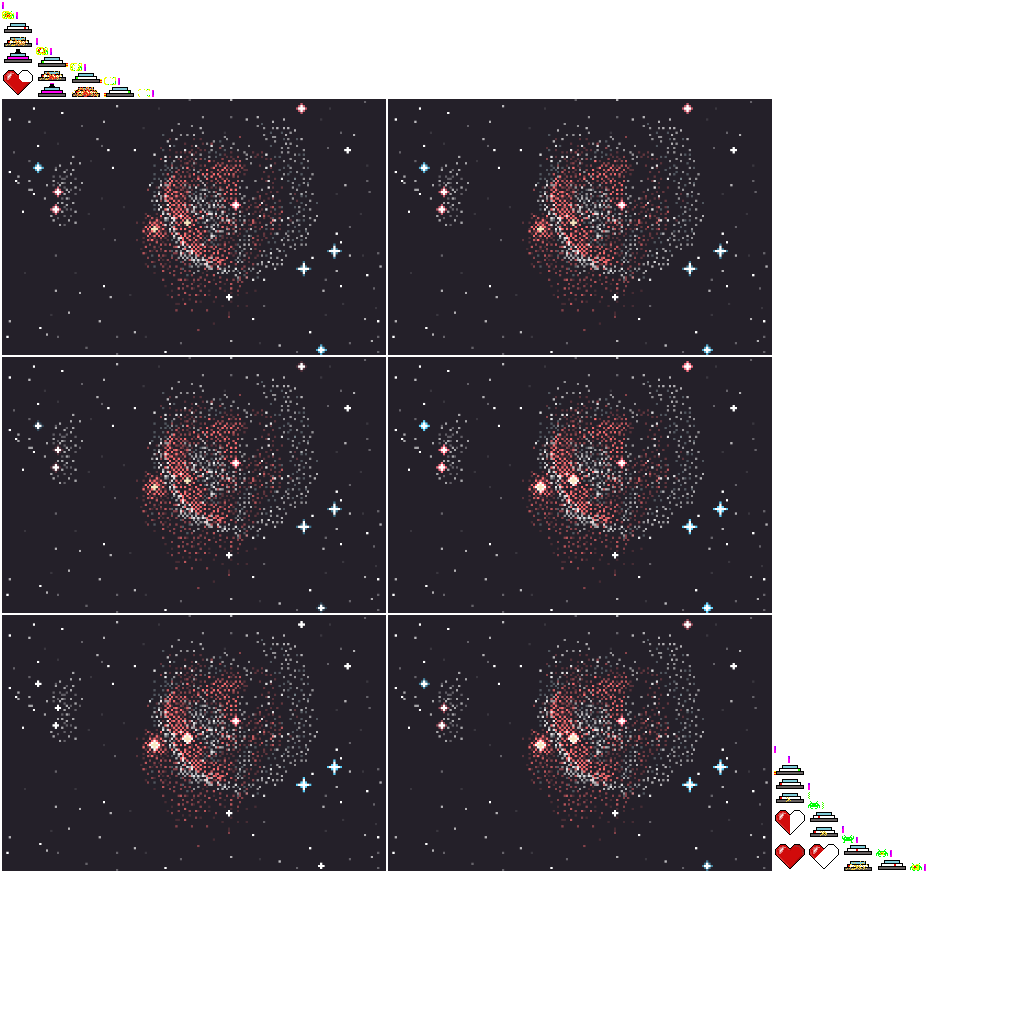
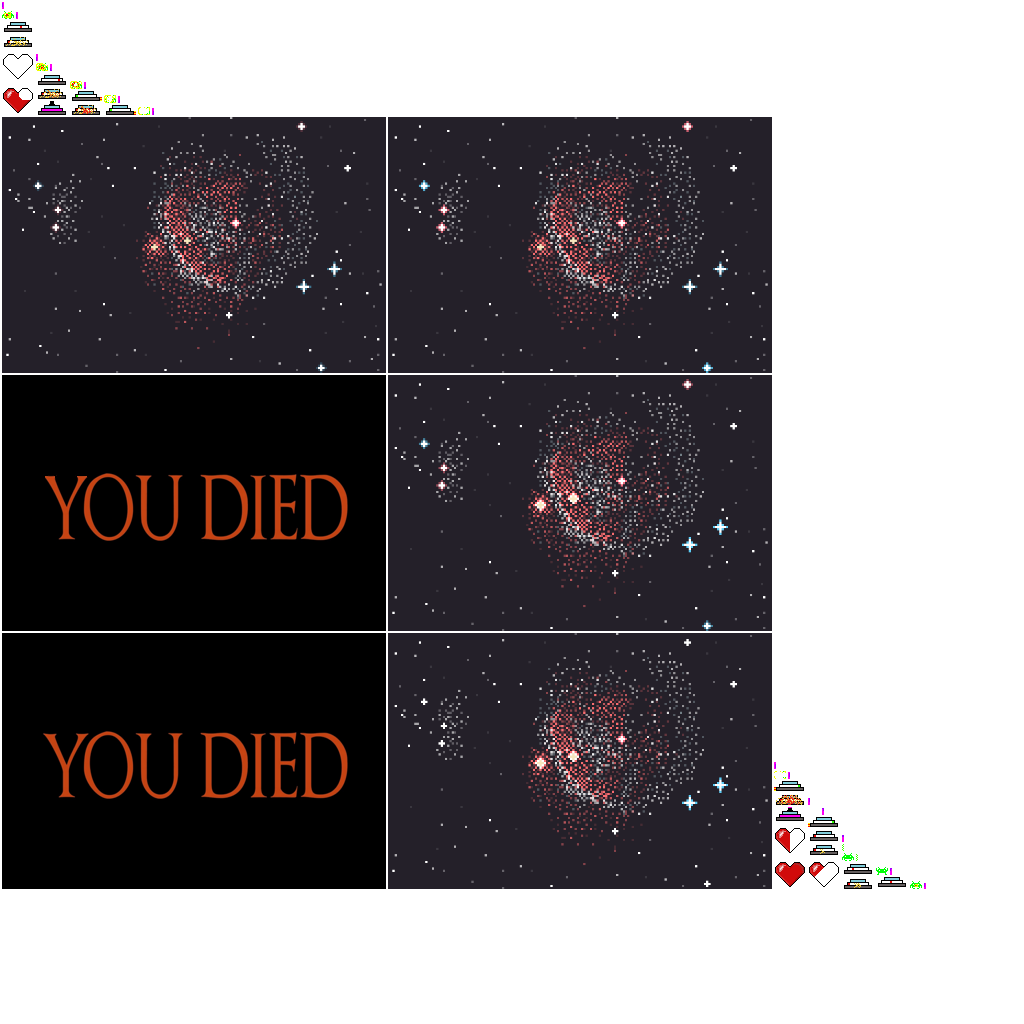
Couldn't load shared library 'libgdx64.so' for target: Linux, 64-bit.
Falta terminar el continue en GameOverScreen

diff --git a/core/src/com/mygdx/game/objects/Ship.java b/core/src/com/mygdx/game/objects/Ship.java
@@ -9,7 +9,7 @@ import com.mygdx.game.Controls;
 public class Ship {
 
     enum State {
-        IDLE, LEFT, RIGHT, SHOOT, DYING, DEAD, LIVE;
+        IDLE, LEFT, RIGHT, SHOOT, DYING, DEAD
     }
 
     Vector2 position;
@@ -17,10 +17,9 @@ public class Ship {
     State state;
     float stateTime;
     float speed = 5;
-    int lives = 3;
+    int lives = 4;
 
-    TextureRegion frame;
-
+    TextureRegion frame, heart, over;
     Weapon weapon;
 
     Ship(int initialPosition){
@@ -33,6 +32,7 @@ public class Ship {
 
 
     void setFrame(Assets assets){
+
         switch (state){
             case IDLE:
                 frame = assets.naveidle.getKeyFrame(stateTime, true);
@@ -54,72 +54,91 @@ public class Ship {
                 break;
         }
 
+        switch (lives){
+            case 4:
+                heart = assets.heartcontainer.getKeyFrame(0, true);
+                break;
+            case 3:
+                heart = assets.heartcontainer.getKeyFrame(1, true);
+                break;
+            case 2:
+                heart = assets.heartcontainer.getKeyFrame(2, true);
+                break;
+            case 1:
+                heart = assets.heartcontainer.getKeyFrame(3, true);
+                break;
+            case 0:
+                heart = assets.heartcontainer.getKeyFrame(4, true);
+                break;
+        }
+
     }
 
     void render(SpriteBatch batch){
         batch.draw(frame, position.x, position.y);
 
         weapon.render(batch);
+
+        batch.draw(heart, 25, 220);
     }
 
     public void update(float delta, Assets assets) {
         stateTime += delta;
 
-        if (Controls.isLeftPressed()) {
-            moveLeft();
-        } else if (Controls.isRightPressed()) {
-            moveRight();
-        } else {
-            idle();
+        System.out.println(state);
+        switch (state){
+            case IDLE:
+            case RIGHT:
+            case LEFT:
+            case SHOOT:
+                if (Controls.isLeftPressed()) {
+                    setState(State.LEFT);
+                    moveLeft();
+                } else if (Controls.isRightPressed()) {
+                    setState(State.RIGHT);
+                    moveRight();
+                } else {
+                    setState(State.IDLE);
+                }
+
+                if (Controls.isShootPressed()) {
+                    setState(State.SHOOT);
+                    shoot();
+                    assets.shootSound.play();
+                }
+                if (lives == 0) {
+                    setState(State.DYING);
+                }
+                break;
+            case DYING:
+                if(assets.navedamaged.isAnimationFinished(stateTime)){
+                    setState(State.DEAD);
+                }
+                break;
         }
-
-        if (Controls.isShootPressed()) {
-            shoot();
-            assets.shootSound.play();
-        }
-
-        // probando para matar a la nave
-        if (state == State.DYING) {
-            if (assets.navedamaged.isAnimationFinished(stateTime)) {
-                state = State.DEAD;
-            }
-
-            setFrame(assets);
-
-            weapon.update(delta, assets);
-        }
-
-        System.out.println(frame);
+        setFrame(assets);
+        weapon.update(delta, assets);
     }
 
-    void idle(){
-        state = State.IDLE;
+    private void setState(State state) {
+        this.state = state;
+        stateTime = 0;
     }
+
 
     void moveLeft(){
         position.x -= speed;
-        state = State.LEFT;
     }
 
     void moveRight(){
         position.x += speed;
-        state = State.RIGHT;
     }
 
     void shoot(){
-        state = State.SHOOT;
         weapon.shoot(position.x +16);
     }
 
     void damage() {
         lives -= 1;
-        if(lives == 0) {
-            System.out.println("Muerto");
-        }
-
-        state = State.DYING;
-        stateTime = 0;
-
     }
-
 }

diff --git a/core/src/com/mygdx/game/objects/World.java b/core/src/com/mygdx/game/objects/World.java
@@ -9,10 +9,12 @@ public class World {
     Space space;
     Ship ship;
     AlienArmy alienArmy;
+    public  boolean gameOver = false;
 
     int WORLD_WIDTH, WORLD_HEIGHT;
 
     public World(int WORLD_WIDTH, int WORLD_HEIGHT){
+
         this.WORLD_WIDTH = WORLD_WIDTH;
         this.WORLD_HEIGHT = WORLD_HEIGHT;
 
@@ -33,6 +35,8 @@ public class World {
     }
 
     void update(float delta, Assets assets){
+        checkGameOver();
+
         space.update(delta, assets);
         ship.update(delta, assets);
         alienArmy.update(delta, assets);
@@ -40,7 +44,14 @@ public class World {
         checkCollisions(assets);
     }
 
+    private void checkGameOver() {
+        if(ship.state == Ship.State.DEAD){
+            gameOver = true;
+        }
+    }
+
     private void checkCollisions(Assets assets) {
+
         checkNaveInWorld();
         checkShootsInWorld();
         checkShootsToAlien(assets);
@@ -48,9 +59,6 @@ public class World {
     }
 
     private void checkShootsToShip() {
-        System.out.println(ship.state);
-        System.out.println(ship.frame);
-        System.out.println(ship.frame.getRegionHeight());
 
         Rectangle shipRectangle = new Rectangle(ship.position.x, ship.position.y, ship.frame.getRegionWidth(), ship.frame.getRegionHeight());
 
@@ -65,6 +73,7 @@ public class World {
     }
 
     private void checkShootsToAlien(Assets assets) {
+
         for(Shoot shoot: ship.weapon.shoots){
             Rectangle shootRectangle = new Rectangle(shoot.position.x, shoot.position.y, shoot.frame.getRegionWidth(), shoot.frame.getRegionHeight());
             for(Alien alien: alienArmy.aliens){
@@ -82,6 +91,7 @@ public class World {
     }
 
     private void checkShootsInWorld() {
+
         for(Shoot shoot: ship.weapon.shoots){
             if(shoot.position.y > WORLD_HEIGHT){
                 shoot.remove();
@@ -96,6 +106,7 @@ public class World {
     }
 
     private void checkNaveInWorld() {
+
         if(ship.position.x > WORLD_WIDTH-32){
             ship.position.x = WORLD_WIDTH-32;
         } else if(ship.position.x < 0){

diff --git a/core/src/com/mygdx/game/Assets.java b/core/src/com/mygdx/game/Assets.java
@@ -9,7 +9,7 @@ import com.badlogic.gdx.graphics.g2d.TextureRegion;
 
 public class Assets extends AssetManager {
     public TextureAtlas atlas;
-    public Animation<TextureRegion> space, alien, aliendie, naveidle, naveleft, naveright, naveshoot, navedamaged, shoot, alienshoot, heartcontainer;
+    public Animation<TextureRegion> space, alien, aliendie, naveidle, naveleft, naveright, naveshoot, navedamaged, shoot, alienshoot, heartcontainer, gameover;
     public Sound shootSound = Gdx.audio.newSound(Gdx.files.internal("shootsound.wav"));
     public Sound alienSound = Gdx.audio.newSound(Gdx.files.internal("aliensound.wav"));
     public Sound aliendieSound = Gdx.audio.newSound(Gdx.files.internal("aliendie.wav"));
@@ -39,9 +39,12 @@ public class Assets extends AssetManager {
         naveleft = new Animation<TextureRegion>(0.1f, atlas.findRegions("naveleft"));
         naveright = new Animation<TextureRegion>(0.1f, atlas.findRegions("naveright"));
         naveshoot = new Animation<TextureRegion>(0.1f, atlas.findRegions("naveshoot"));
-        navedamaged = new Animation<TextureRegion>(0.1f, atlas.findRegions("navedamaged"));
+        navedamaged = new Animation<TextureRegion>(0.3f, atlas.findRegions("navedamaged"));
         shoot = new Animation<TextureRegion>(0.02f, atlas.findRegions("shoot"));
         alienshoot = new Animation<TextureRegion>(0.1f, atlas.findRegions("alienshoot"));
-        heartcontainer = new Animation<TextureRegion>(0.1f, atlas.findRegions("heartcontainer"));
+        heartcontainer = new Animation<TextureRegion>(1, atlas.findRegions("heartcontainer"));
+
+//        gameover = new Animation<TextureRegion>(0, atlas.findRegions("lose"));
+
     }
 }

diff --git a/core/src/com/mygdx/game/screen/GameOverScreen.java b/core/src/com/mygdx/game/screen/GameOverScreen.java
@@ -1,0 +1,39 @@
+package com.mygdx.game.screen;
+
+import com.badlogic.gdx.Gdx;
+import com.badlogic.gdx.graphics.g2d.BitmapFont;
+import com.badlogic.gdx.graphics.g2d.SpriteBatch;
+import com.mygdx.game.SpaceInvaders;
+
+public class GameOverScreen extends SpaceInvadersScreen {
+
+    BitmapFont bitmapFont;
+    SpriteBatch batch;
+
+    public GameOverScreen(SpaceInvaders si) {
+        super(si);
+    }
+
+    @Override
+    public void show() {
+        bitmapFont = new BitmapFont();
+        batch = new SpriteBatch();
+    }
+
+    @Override
+    public void render(float delta) {
+        batch.begin();
+        bitmapFont.draw(batch, "GAME OVER", 270, 280);
+        bitmapFont.draw(batch, "Continuar?", 270, 240);
+        bitmapFont.draw(batch, "Si", 240, 200);
+        bitmapFont.draw(batch, "No", 280, 200);
+        batch.end();
+
+        //Botones para finalizar
+//        if(Gdx.input.justTouched()){
+//            if(Gdx.input.getX() > 240 && Gdx.input.getX() < 300 && Gdx.input.getY()>200){
+
+//            }
+//        }
+    }
+}

diff --git a/core/src/com/mygdx/game/screen/GameScreen.java b/core/src/com/mygdx/game/screen/GameScreen.java
@@ -40,6 +40,9 @@ public class GameScreen extends SpaceInvadersScreen {
         spriteBatch.setProjectionMatrix(camera.combined);
 
         world.render(delta, spriteBatch, assets);
+        if(world.gameOver){
+            game.setScreen(new GameOverScreen(game));
+        }
     }
 
     @Override

diff --git a/core/src/com/mygdx/game/objects/Weapon.java b/core/src/com/mygdx/game/objects/Weapon.java
@@ -32,8 +32,11 @@ public class Weapon {
     }
 
     public void shoot(float position){
+
         if(shootTimer.check()){
             shoots.add(new Shoot(position));
+
+            System.out.println(shoots.size);
         }
     }
 
